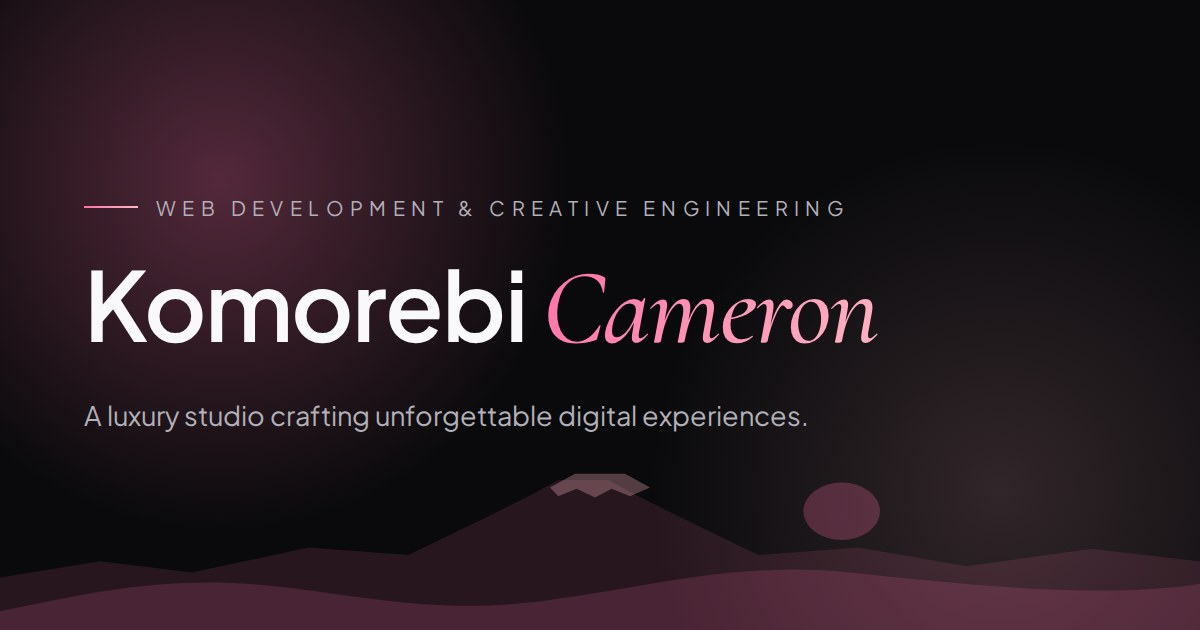
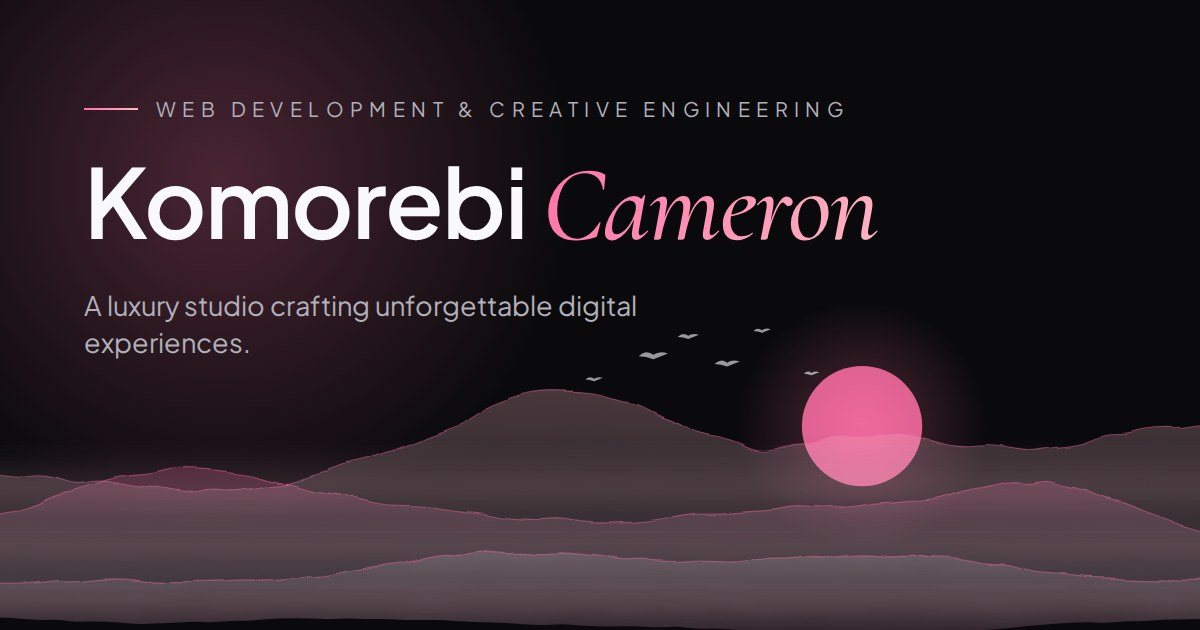
Full-viewport guide petal, sumi-e footer/OG, purge hardcoded pink
- Guide petal: 44px, sweeps full viewport width (sin(progress*8pi)*0.4vw),
  spring lag + drag, scroll-velocity wind gusts, angular inertia
- Footer + OG image: layered ink-wash ridges, mist, sun disc, birds; bound to palette tokens
- Tailwind sakura colours/gradient and header logo now use CSS vars

Claude-Session: https://claude.ai/code/session_01Xu9FZBxmHmEcpyn9k5xuPB

diff --git a/src/components/react/GuidePetal.tsx b/src/components/react/GuidePetal.tsx
@@ -19,14 +19,11 @@ const THREAD_WIDTH = 1.7;
  * ----------
  *  - Vertical: the petal drifts from ~14% to ~86% of the viewport height as
  *    document scroll progress goes 0 -> 1.
- *  - Horizontal: a sine wave, `x = laneCenter + sin(progress * 10π) * amplitude`,
- *    spanning the entire document (scrollProgress 0 -> 1).
- *  - Text avoidance: the lane is chosen from the *measured* gutters outside
- *    the page's content column(s) (`[data-safe-column]`). The amplitude is
- *    derived from the gutter width and the petal's own size, and x is hard
- *    clamped after the spring step, so the petal can never enter the column
- *    that holds body text or card copy. On narrow screens the petal shrinks
- *    to fit the gutter rather than overlapping.
+ *  - Horizontal: a sine wave across the WHOLE viewport width,
+ *    `x = vw/2 + sin(progress * 8π) * vw * 0.4`, over scroll progress 0 -> 1.
+ *  - Physics: a soft spring (lag + overshoot), drag, wind gusts proportional to
+ *    scroll velocity, and angular inertia so the petal tumbles organically.
+ *    It is clamped inside the viewport at all times.
  *
  * Everything runs in one rAF loop reading `scrollBus.state` and writing
  * straight to DOM styles / a canvas: no React state, no re-renders.
@@ -82,34 +79,11 @@ export default function GuidePetal() {
       vw = document.documentElement.clientWidth;
       vh = window.innerHeight;
 
-      let left = Infinity;
-      let right = -Infinity;
-      document.querySelectorAll<HTMLElement>('[data-safe-column]').forEach((el) => {
-        const rect = el.getBoundingClientRect();
-        const cs = getComputedStyle(el);
-        left = Math.min(left, rect.left + (parseFloat(cs.paddingLeft) || 0));
-        right = Math.max(right, rect.right - (parseFloat(cs.paddingRight) || 0));
-      });
-      if (!Number.isFinite(left) || !Number.isFinite(right)) {
-        left = vw * 0.1;
-        right = vw * 0.9;
-      }
-
-      // Keep a small buffer between the petal lane and the text column.
-      const buffer = 6;
-      const leftInner = left - buffer; // left gutter spans [0, leftInner]
-      const rightInner = right + buffer; // right gutter spans [rightInner, vw]
-      const leftWidth = Math.max(0, leftInner);
-      const rightWidth = Math.max(0, vw - rightInner);
-
-      const useRight = rightWidth >= leftWidth;
-      const gutter = useRight ? rightWidth : leftWidth;
-
-      usable = gutter >= 9;
-      size = clamp(gutter * 0.7, 10, 32);
-      laneCenter = useRight ? rightInner + gutter / 2 : gutter / 2;
-      // Half the free width, minus the petal's own half-width and a hair of slack.
-      amplitude = Math.max(0, gutter / 2 - size / 2 - 1);
+      // Full-viewport sweep: no gutters, the petal owns the whole screen width.
+      usable = true;
+      size = clamp(vw * 0.115, 34, 46);
+      laneCenter = vw / 2;
+      amplitude = Math.max(0, vw * 0.4);
 
       petal.style.width = `${size}px`;
       petal.style.height = `${size * 1.2}px`;
@@ -126,7 +100,7 @@ export default function GuidePetal() {
     window.addEventListener('resize', measure);
 
     // ---- Simulation state ------------------------------------------------
-    const s = { x: 0, y: 0, vx: 0, vy: 0, rot: 0, opacity: 0 };
+    const s = { x: 0, y: 0, vx: 0, vy: 0, rot: 0, av: 0, opacity: 0 };
     let initialised = false;
 
     const trailX = new Float32Array(TRAIL_CAPACITY);
@@ -150,10 +124,10 @@ export default function GuidePetal() {
       const bus = scrollBus.state;
       const p = clamp01(bus.progress);
       // One continuous sine wave for the whole page: 0 -> 1 scroll = 5 full weaves.
-      const phase = p * Math.PI * 10;
+      const phase = p * Math.PI * 8;
 
       // ---- Target on the spiral, inside the lane ---------------------------
-      const idleSway = Math.sin(time * 0.7) * amplitude * 0.12;
+      const idleSway = Math.sin(time * 0.7) * amplitude * 0.03;
       const targetX = clamp(
         laneCenter + Math.sin(phase) * amplitude + idleSway,
         laneCenter - amplitude,
@@ -169,25 +143,27 @@ export default function GuidePetal() {
         initialised = true;
       }
 
-      // ---- Critically-damped-ish spring toward the target ------------------
-      const k = 46;
-      const c = 2 * Math.sqrt(k) * 0.88;
-      s.vx += (k * (targetX - s.x) - c * s.vx) * dt;
-      s.vy += (k * (targetY - s.y) - c * s.vy) * dt;
+      // ---- Inertial spring: the petal lags the scroll, then glides after it ---
+      // Soft spring (low k) + drag (low damping ratio) gives a floaty overshoot;
+      // fast scrolling adds a wind gust that pushes it sideways.
+      const k = 11;
+      const c = 2 * Math.sqrt(k) * 0.62;
+      const gust = clamp(bus.velocity * 0.05, -140, 140) * Math.sin(time * 1.3 + phase);
+      s.vx += (k * (targetX - s.x) - c * s.vx + gust) * dt;
+      s.vy += (k * (targetY - s.y) - c * s.vy - clamp(bus.velocity, -3000, 3000) * 0.02) * dt;
       s.x += s.vx * dt;
       s.y += s.vy * dt;
-      // Hard guarantee: never leave the lane, whatever the spring does.
-      s.x = clamp(s.x, laneCenter - amplitude, laneCenter + amplitude);
+      s.x = clamp(s.x, size * 0.5, vw - size * 0.5);
+      s.y = clamp(s.y, size * 0.5, vh - size * 0.5);
 
-      // ---- Orientation: swirl + lean into scroll velocity ------------------
-      const rotTarget =
-        Math.cos(phase) * 0.9 +
-        clamp(s.vx * 0.0025, -0.5, 0.5) +
-        clamp(bus.velocity * 0.0003, -0.5, 0.5);
-      s.rot = damp(s.rot, rotTarget, 5, dt);
+      // ---- Orientation: angular inertia driven by velocity (rot += vel * 0.05) ---
+      const torque =
+        (Math.cos(phase) * 0.9 + s.vx * 0.05 * 0.06 + clamp(bus.velocity * 0.0004, -0.8, 0.8)) - s.rot;
+      s.av += (torque * 9 - s.av * 3.2) * dt;
+      s.rot += s.av * dt;
 
       // Pseudo-3D tumble: squash local x by |cos|.
-      const tumble = time * 0.7 + phase;
+      const tumble = time * 0.7 + phase + s.av * 0.6;
       const squash = 0.38 + 0.62 * Math.abs(Math.cos(tumble));
 
       // ---- Visibility: intro fade-in, fade out near the footer -------------
@@ -324,7 +300,7 @@ export default function GuidePetal() {
       <div
         ref={petalRef}
         className="absolute left-0 top-0 will-change-transform"
-        style={{ opacity: 0, width: 32, height: 38 }}
+        style={{ opacity: 0, width: 44, height: 53 }}
       >
         {/* Radial glow halo */}
         <span

diff --git a/src/styles/global.css b/src/styles/global.css
@@ -639,27 +639,18 @@
       radial-gradient(55vmax 40vmax at 92% 46%, rgb(var(--sakura-b) / 0.09), transparent 70%),
       radial-gradient(70vmax 40vmax at 30% 100%, rgb(var(--accent-glow) / 0.07), transparent 70%);
   }
-  .mtn-far {
-    fill: rgb(var(--sakura-a) / 0.1);
-  }
-  .mtn-snow {
-    fill: rgb(var(--sakura-b) / 0.28);
-  }
-  .mtn-mid {
-    fill: rgb(var(--sakura-a) / 0.16);
-  }
-  .mtn-near {
-    fill: rgb(var(--sakura-a) / 0.1);
-  }
-  .mtn-base {
-    fill: rgb(var(--bg));
-  }
-  .mtn-sun {
-    fill: rgb(var(--sakura-a) / 0.22);
-    filter: drop-shadow(0 0 28px rgb(var(--accent-glow) / 0.55));
-  }
-  .mtn-line {
-    stroke: rgb(var(--border-accent) / 0.35);
-    fill: none;
-  }
+
+    .s-a{stop-color:rgb(var(--sakura-a))}.s-b{stop-color:rgb(var(--sakura-b))}.s-fg{stop-color:rgb(var(--fg))}.s-bg{stop-color:rgb(var(--bg))}.s-mist{stop-color:rgb(var(--sakura-b))}
+  .ls-disc{fill:rgb(var(--text-accent) / 0.85)}
+  .ls-ridge{fill:none;stroke:rgb(var(--border-accent) / 0.4);stroke-linecap:round}
+  .ls-fore{fill:rgb(var(--bg))}
+  .ls-fog{mix-blend-mode:normal}
+  .bird-silhouette{fill:rgb(var(--fg) / 0.55)}
+
+  .ls-birds { animation: bird-drift 42s linear infinite alternate; }
+}
+
+@keyframes bird-drift {
+  from { transform: translate3d(-70px, 6px, 0); }
+  to { transform: translate3d(90px, -8px, 0); }
 }
